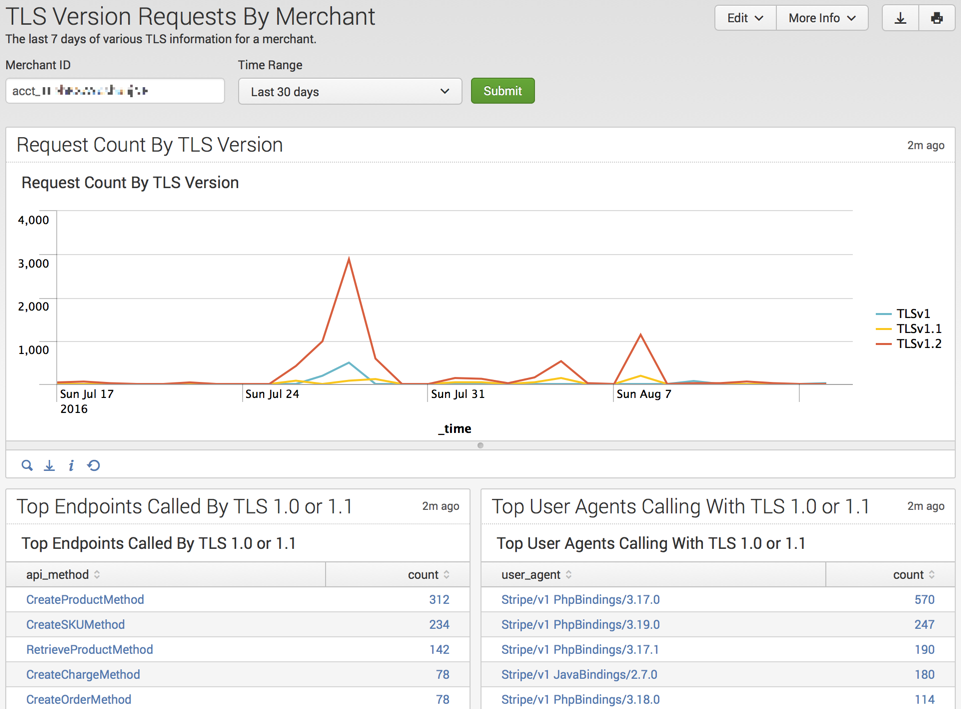
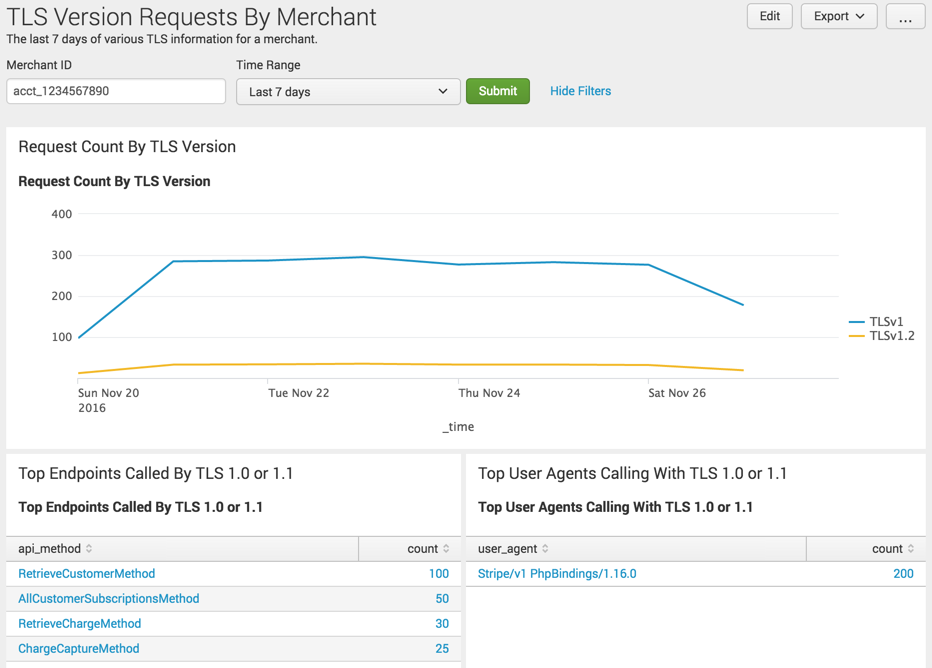
Change Splunk images to be more artifically
Former-commit-id: c36c0fe13815175460e38d83a52582e589698a2b

diff --git a/content/articles/canonical-log-lines.md b/content/articles/canonical-log-lines.md
@@ -131,6 +131,9 @@ information is easily available:
 
 > canonical-api-line status=500 api_method=AllEventsMethod earliest=-7d | timechart count
 
+_(Note: These numbers are artificial and not actually representative of Stripe
+API traffic.)_
+
 By putting this query into a Splunk subsearch, I can trivially join it with
 other emitted log lines. For example, by joining on a "breakage line" (one
 where we log an exception), I can look at these errors grouped by class:
@@ -144,7 +147,7 @@ are counts of timeout errors over the last week by API version:
 
 !fig src="/assets/canonical-log-lines/top-api-versions.png" caption="An inverted search. API versions pulled from the canonical log line and fetched by class of error."
 
-> [search breakage-splunkline error_class=Chalk::ODM::OperationTimeout sourcetype=bapi-srv earliest=-7d | fields action_id] canonical-api-line | stats count by stripe_version | sort -count limit 10
+> [search breakage-splunkline error_class=Timeout sourcetype=bapi-srv earliest=-7d | fields action_id] canonical-api-line | stats count by stripe_version | sort -count limit 10
 
 ### Example: TLS Deprecation (#tls-deprecation)
 
